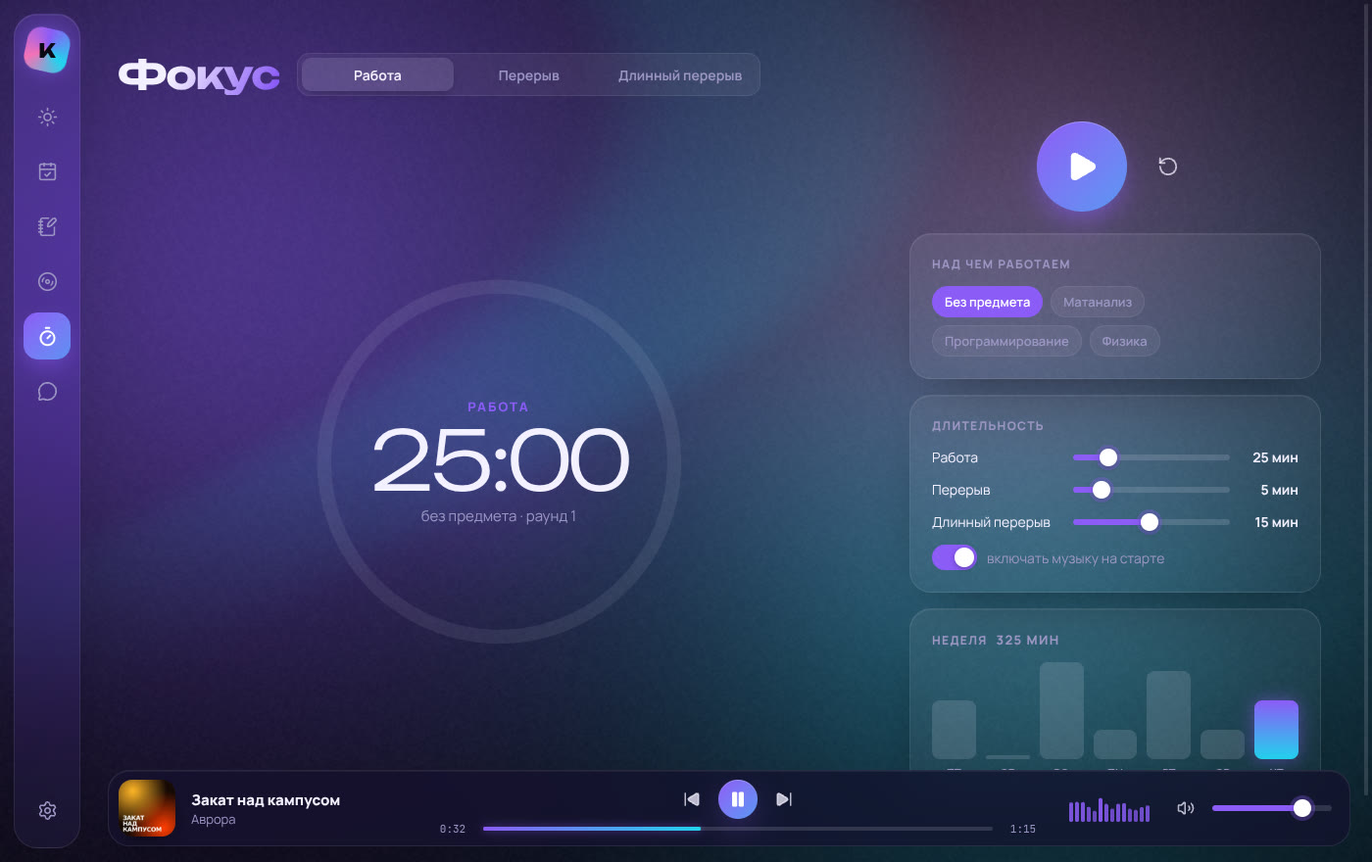
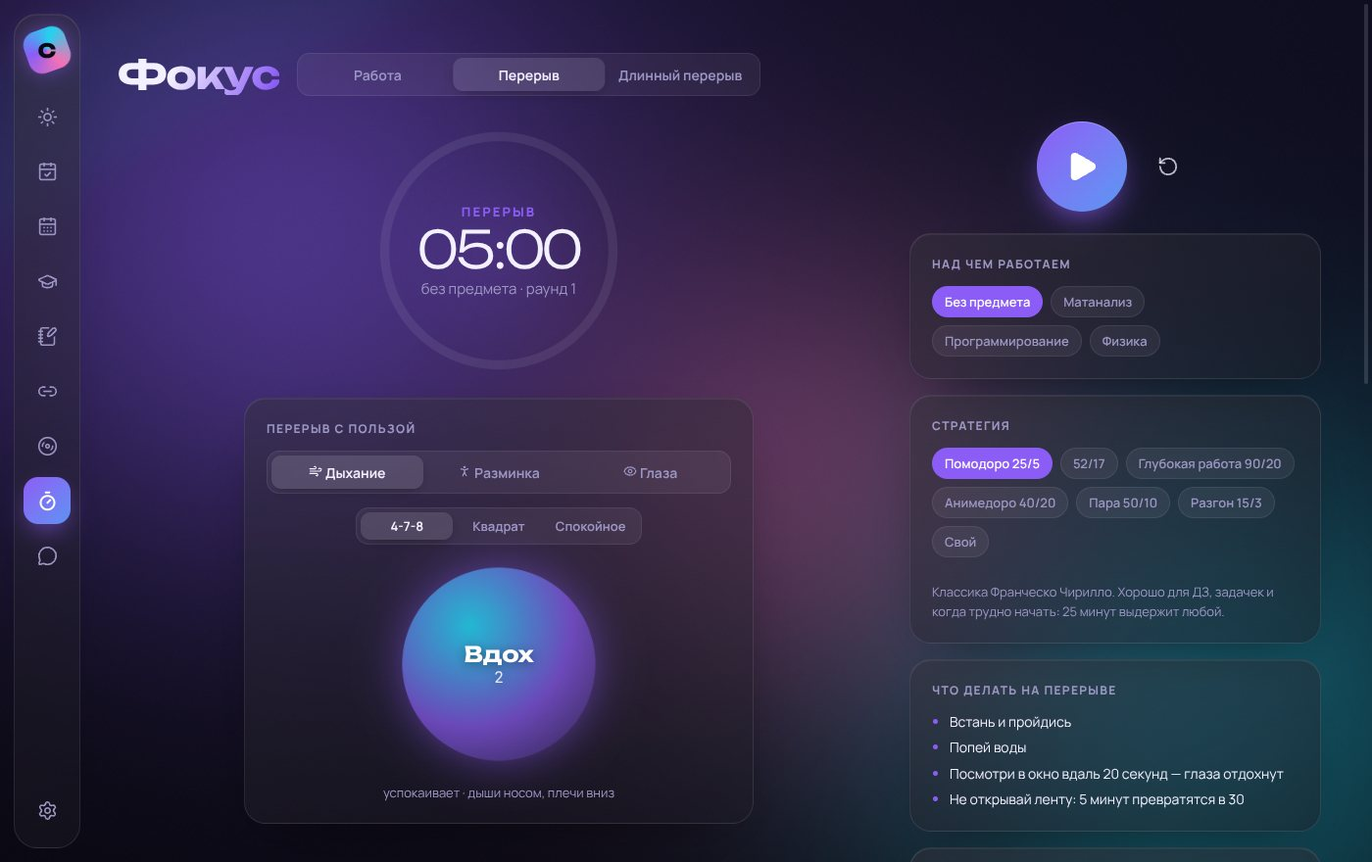
Камадо 1.0.0: README со свежими скриншотами, итоги в BUGS/ROADMAP
Claude-Session: https://claude.ai/code/session_01TCXKg4pTrgbacK1AsPovdT

diff --git a/desktop/renderer/src/screens/Focus.tsx b/desktop/renderer/src/screens/Focus.tsx
@@ -61,7 +61,7 @@ export function Focus() {
       </header>
 
       <div className="focus-layout">
-        <div className="focus-left">
+        <div className={`focus-left ${s.mode !== "work" && cfg.coach !== false ? "break" : ""}`}>
         <div className={`focus-timer mode-${s.mode} ${s.running ? "running" : ""}`}>
           <div ref={glow} className="focus-glow" />
           <svg viewBox="0 0 340 340" className="focus-ring">

diff --git a/desktop/renderer/src/styles/global.css b/desktop/renderer/src/styles/global.css
@@ -5440,3 +5440,12 @@ kbd {
 .ach span:last-child {
   color: var(--muted);
 }
+.focus-left.break {
+  align-self: start;
+}
+.focus-left.break .focus-timer {
+  width: min(280px, 30vh);
+}
+.focus-left.break .focus-time {
+  font-size: clamp(40px, 6vh, 64px);
+}

diff --git a/README.md b/README.md
@@ -1,6 +1,6 @@
 # Камадо
 
-Личный ассистент студента. Все ДЗ, контрольные и сроки в одном месте, напоминания вовремя, фокус-таймер и музыка с текстами песен. Можно писать ему с телефона через Telegram.
+Личный ассистент студента. Все ДЗ, контрольные и сроки в одном месте, план недели и подготовка к сессии, фокус-таймер с дыханием на перерыве, напоминания со звуком — и музыкальный плеер с огромной пластинкой, текстами песен и заставкой-визуализатором. Писать ему можно и с телефона, через Telegram: текстом, фото или голосом.
 
 ## Скачать
 
@@ -14,47 +14,59 @@
 
 ![Сегодня](docs/screenshots/today.jpg)
 
-## Что умеет
+## Учёба
 
 | | |
 |---|---|
-| ![Взрыв](docs/screenshots/burst.jpg) | ![Лента](docs/screenshots/flow.jpg) |
-| ![Музыка](docs/screenshots/music.jpg) | ![Задания](docs/screenshots/tasks.jpg) |
-| ![Фокус](docs/screenshots/focus.jpg) | ![Настройки](docs/screenshots/settings.jpg) |
+| ![План недели](docs/screenshots/plan.jpg) | ![Сессия](docs/screenshots/session.jpg) |
+| ![Задания и шаги](docs/screenshots/tasks.jpg) | ![Заметки с формулами](docs/screenshots/notes.jpg) |
+| ![Перерыв с дыханием](docs/screenshots/focus.jpg) | ![Ссылки на уроки](docs/screenshots/links.jpg) |
 
-- **Сегодня** — план на день (сам раскладывает задания по срочности, кнопка ▶ запускает фокус), что горит, быстрая запись, неделя.
-- **Задания** — ДЗ, контрольные, экзамены, лабы по срочности. Карточки предметов: препод, где сдавать, правила.
-- **Заметки** — конспекты и билеты.
-- **Ссылки** — все ссылки преподов в одном месте: Zoom, Meet, Moodle, чаты, диски. Вставь хоть целое сообщение из чата — Камадо сам вытащит ссылки, подпишет и разложит по предметам. Закреплённые и «недавно открывал» — наверху, поиск, открытие в один клик.
-- **Итоги недели** — сколько был в фокусе, что закрыл, лучший день, что слушал и исполнитель недели.
-- **Быстрая запись из любой программы** — Ctrl+Shift+Пробел (на Mac Cmd+Shift+Пробел), пишешь задание, Enter — и окно исчезает.
-- **Напоминания со звуком** — «напомни в 18:00» прямо на «Сегодня» и о сроках заданий. 10 звуков (от маримбы до фонка и мемного горна) или свой файл; громкость нарастает плавно, как на Samsung. «Стоп» или «через 10 минут».
-- **Фокус** — пресеты по настоящим методикам (Помодоро, 52/17, 90/20, Анимедоро, «пара» 50/10, разгон 15/3) с подсказками, что делать в сессии и на перерыве; можно и свой. Сам включает музыку, статистика за неделю.
-- **Музыка:**
-  - выбор трека в 3D-карусели: листай влево-вправо, остановился — через секунду играет; клик по обложке открывает плеер;
-  - **плейлисты**: «Все», «Любимое» (♡), «Часто слушаю», свои плейлисты, каждая папка — отдельная вкладка; треки перетаскиваются на плейлист;
-  - **поиск бесплатной музыки** (Internet Archive) прямо в программе — нашёл, отметил треки, скачал;
-  - огромная пластинка с обложкой в центре и своим дизайном для каждой песни (брызги, мрамор, половинки, галактика, спираль и др.) в цветах обложки; крути её — это скретч: песня звучит вперёд и назад;
-  - громкость прямо в плеере, плавная «по слуху»; **автовыравнивание громкости** скачанных песен и ползунок громкости для каждой песни отдельно;
-  - светящиеся волны и кольцо в такт, тряска на ударах баса;
-  - умный рандом («Перемешать всё»), плавные переходы между треками, таймер сна;
-  - slowed + reverb и nightcore, скорость каждого настраивается ползунком;
-  - мини-плеер в меню-баре Mac, «Сейчас играет» в Пункте управления, медиаклавиши;
-  - статус «Слушает в Camado» в Discord;
-  - текст песни в трёх режимах: «Лента», «Взрыв», «Строка»;
-  - **текст поверх всех окон** — строка с караоке внизу экрана, пока делаешь домашку в другой программе;
-  - музыка из папки, перетаскиванием или **по ссылке**: прямая ссылка на mp3/flac, страница, где трек лежит для скачивания, ссылка на Google Диск, Dropbox или Яндекс Диск (и целая папка на нём), или даже скопированный код страницы; папки обновляются сами — скачал трек в папку, он появился в библиотеке.
-  - Тексты песен подтягиваются сами. Если текст отстаёт или спешит — кнопка ⌖ «поймать»: нажми строку, которую поют, и весь текст встанет в такт; поймай ещё одну ближе к концу — подгонится и скорость (бывает, если скачанная копия чуть ускорена). ⌖ сам подсвечивается, когда текст, скорее всего, от другой версии песни. Если текста нет, положи файл `.lrc` с тем же названием рядом с песней.
-- **12 палитр** и режим «цвета из обложки трека».
-- **Обновляется сама** — новая версия скачивается в фоне, остаётся нажать «Перезапустить».
-- **Камадо-чат и Telegram** — пишешь обычными словами («по матану №5–12 к пятнице»), он сам всё запишет. Нужен ключ ИИ, вставляется в Настройках.
+- **Сегодня** — план на день по срочности (▶ запускает фокус), что горит, быстрая запись текстом, **фото** или **голосом**, свои напоминания, уровень и серия дней.
+- **Задания** — ДЗ, контрольные, экзамены, лабы по срочности; карточки предметов. У каждого задания:
+  - **«Разбей на шаги»** — Камадо превращает курсовую в 5–7 маленьких шагов с галочками;
+  - **«Помоги понять»** — репетитор объясняет тему и задаёт наводящие вопросы, но не решает за тебя.
+- **План** — неделя по часам: перетаскивай задания на дни, тяни блоки за край, **«Разложить сам»** — Камадо расставит всё по свободным вечерам до сроков.
+- **Сессия** — отсчёт до каждого экзамена, билеты «знаю / повторить / не знаю» и сколько учить сегодня, чтобы успеть всё.
+- **Заметки** — конспекты с **формулами** (`$\lim_{x\to0}\frac{\sin x}{x}$` рисуется как в учебнике), сохранение в **PDF**, **карточки** из конспекта и повторение по интервалам, как в Anki.
+- **Ссылки** — все ссылки преподов в одном месте: вставь хоть целое сообщение из чата — Камадо вытащит ссылки, подпишет и разложит по предметам.
+- **Фокус** — пресеты по методикам (Помодоро, 52/17, 90/20, Анимедоро…), на перерыве — **дыхание, разминка и гимнастика для глаз**, фоновые звуки и свои плейлисты на работу и отдых.
+- **Напоминания со звуком** — 10 звуков (от маримбы до фонка) или свой, громкость нарастает плавно.
+- **Итоги недели и ачивки** — сколько был в фокусе, что сдал, лучший день, музыка недели, значки за серии.
+- **Быстрая запись из любой программы** — Cmd/Ctrl+Shift+Пробел.
+- **В меню-баре Mac** — таймер фокуса или ближайший дедлайн рядом с часами.
+
+## Музыка
+
+| | |
+|---|---|
+| ![Пластинка](docs/screenshots/vinyl.jpg) | ![Взрыв](docs/screenshots/burst.jpg) |
+| ![Музыка](docs/screenshots/music.jpg) | ![Заставка](docs/screenshots/screensaver.jpg) |
+
+- **Огромная пластинка** с обложкой в центре — 22 вида (брызги, мрамор, мозаика, зигзаги, неон, галактика, пластинка-картинка…) в настоящих цветах обложки; кнопка «другой вид». Крути её — это скретч самой песней.
+- **Тексты песен** — «Лента», «Взрыв», «Строка» и текст поверх всех окон. Разъехался текст — кнопка ⌖: поймай строку, и ещё одну там, где снова разъехалось, — Камадо подгонит и сдвиг, и скорость.
+- **Заставка-визуализатор** — ничего не трогаешь пару минут, и экран превращается в живую сцену в цветах песни: дождь по стеклу, чёрная дыра, звёзды, северное сияние, синтвейв, костёр, медузы… — 11 сцен.
+- **Звук** — эквалайзер с пресетами, автовыравнивание громкости и громкость каждой песни отдельно, slowed + reverb и nightcore с ползунком скорости, плавные переходы, таймер сна.
+- **Фоновые звуки** — дождь, гроза, кафе, камин, лес, море, поезд, шумы, котик — смешиваются ползунками, с музыкой и без.
+- **Библиотека** — плейлисты, «Любимое», «Часто слушаю»; музыка из папки, перетаскиванием, по ссылке (файл, страница, Google Диск, Dropbox, Яндекс Диск) и **поиск бесплатной музыки** прямо в программе.
+- Мини-плеер в меню-баре Mac, медиаклавиши, статус в Discord, 12 палитр и «цвета из обложки».
+
+![Сцены заставки](docs/screenshots/scenes.jpg)
+
+## ИИ — бесплатно
+
+Камадо понимает обычный текст, фото и голос. По умолчанию — **бесплатный Google Gemini**: ключ берётся за минуту на aistudio.google.com, карта не нужна. В Настройках → ИИ можно подключить Claude или любую другую модель (OpenRouter, DeepSeek, своя на компьютере через Ollama). Лимит трат всегда включён. Без ключа всё работает вручную.
 
 ## Первые шаги
 
 1. **Музыка** → «Папка» — выбери папку с песнями, перетащи файлы в окно или вставь ссылку на трек.
-2. **Настройки → Telegram-бот** — чтобы писать Камадо с телефона. Там три шага с подсказками.
-3. **Настройки → ИИ** — чтобы Камадо понимал обычный текст. Без этого всё работает вручную и бесплатно.
+2. **Настройки → ИИ** — вставь бесплатный ключ Gemini, чтобы Камадо понимал обычный текст, фото и голос.
+3. **Настройки → Telegram-бот** — чтобы писать Камадо с телефона. Там три шага с подсказками.
+
+## Безопасность
+
+Ключи хранятся зашифрованными (Связка ключей на Mac), бот отвечает только тебе, текст из чатов и сайтов — это данные, а не команды. Подробнее — [docs/SECURITY.md](docs/SECURITY.md).
 
 ---
 
-<sub>Для разработчиков: [docs/DEVELOPMENT.md](docs/DEVELOPMENT.md) · план — [docs/ROADMAP.md](docs/ROADMAP.md)</sub>
+<sub>Для разработчиков: [docs/DEVELOPMENT.md](docs/DEVELOPMENT.md) · план — [docs/ROADMAP.md](docs/ROADMAP.md) · известные проблемы — [docs/BUGS.md](docs/BUGS.md)</sub>

diff --git a/docs/BUGS.md b/docs/BUGS.md
@@ -15,88 +15,9 @@
 3. Подгонка ⌖ неочевидна: непонятно, что нажимать и в какой момент.
 
 **Что нужно:** файл «Пообещай» (как с прошлыми пятью) — разобрать так же: длины, версия в базе, где начинается расхождение.
-**Идеи:** подгонка в несколько точек (а не только в две) — «ловишь» строку там, где снова разъехалось;
-понятная подсказка прямо в плеере, что делать с ⌖; искать в базе среди всех версий ту, что лучше совпадает с паузами в звуке.
-
-## Название песни налезает на кольцо в режиме «Без текста» (0.6.2)
-
-**Что видно:** при «Без текста» и визуализаторе «Кольцо» название и исполнитель стоят посередине справа — прямо на кольце,
-плохо читается.
-
-**Как хочет владелец:** название сверху справа, чтобы смотрелось гармонично; либо название пожирнее / с более тёмной
-подложкой или тенью, чтобы было видно на фоне кольца и волн.
-
-**Добавка владельца:** в режиме «Без текста» убирать и название с исполнителем тоже — «нет текста — нет и названия»,
-на экране только пластинка и визуализатор. (Тогда вопрос «название на кольце» остаётся для остальных режимов.)
-
-## Пожелание: ещё больше видов пластинок и цветов (0.6.2)
-
-**Что хочет владелец:** пластинки нравятся — нужно ещё больше разновидностей внешнего вида и больше цветов;
-лучше всего, чтобы цвета пластинки были как у самой песни.
-
-**Как сейчас:** 10 стилей (брызги, мрамор, половинки, цветная, галактика, спираль, «цвет в цвете», лучи, вертушка, классика);
-цвета — 3 акцентных цвета палитры (из обложки, если включено «Цвета из обложки»).
-
-**Идеи:**
-- брать из обложки не 3, а 5–6 главных цветов (и светлые, и тёмные) — пластинка будет точно «как песня»;
-- новые стили: волны/рябь, полосы-радуга, градиент по кругу, «леопард»/пятна, сетка точек (как на колонках), молния/зигзаг,
-  неон-кольца, мозаика, акварель, «расплавленный» винил, полупрозрачный с видимой обложкой сквозь него, картинка (picture disc);
-- смешивать стили: основа одного + узор другого — вариантов станет в разы больше;
-- у одной песни вид всегда один и тот же (как сейчас), но кнопкой «другой вид» можно пролистать варианты и запомнить понравившийся.
-
-## Пожелание: не только Claude — бесплатная «затычка» Gemini Flash и любые другие модели (0.6.2)
-
-**Решение владельца:** по умолчанию — бесплатный Google Gemini Flash (самая простая модель, как затычка);
-в Настройках → ИИ можно подключить другие.
-
-**Как сделать:**
-- Новый провайдер `GeminiProvider` за тем же интерфейсом `LLMProvider` (код Камадо не зависит от провайдера).
-  Инструменты (задания, предметы, память) — через вызов функций Gemini; zod-схемы → его формат.
-- Ключ всё равно нужен, но бесплатный: aistudio.google.com → Get API key, без карты. В Настройках — шаги с подсказками
-  и кнопка «Открыть Google AI Studio». Ключ хранится зашифрованным, как ключ Anthropic.
-- Честно предупредить в Настройках: на бесплатном тарифе Google может использовать запросы для обучения; есть дневной лимит
-  (проверить актуальный при подключении). Упёрлись в лимит — понятное сообщение и ручной режим до завтра.
-- Учёт трат: на бесплатном тарифе — $0; если у ключа включена оплата — цены Flash в таблице `pricing`.
-- Дальше в том же разделе: Anthropic (как сейчас), OpenRouter, любой OpenAI-совместимый (DeepSeek, GLM, Groq),
-  своя модель на компьютере (Ollama). Можно разные модели для «быстрых» и «важных» задач.
-
-## Новые функции, выбранные владельцем (из 10 идей)
-
-- **Режим «Сессия».** Обратный отсчёт до каждого экзамена; список билетов с отметками «выучил / повторить / не знаю»;
-  Камадо раскладывает повторение по дням до экзамена (больше на «не знаю», ближе к экзамену — всё по кругу).
-- **Карточки из своих заметок.** Из конспекта ИИ делает пары «вопрос — ответ»; повторение по интервалам
-  (знаю — реже, забыл — чаще). Без ИИ — карточки можно писать вручную.
-- **Фоновые звуки для учёбы — владелец особенно хочет (!!).** Дождь, кафе, белый/розовый/коричневый шум, камин, лес, поезд…
-  Синтезировать прямо в программе (без файлов), смешивать ползунками друг с другом и с музыкой; включать вместе с фокусом.
-- **Дедлайн и таймер в меню-баре Mac.** Рядом с часами: «Матан через 5 ч» или «Фокус 18:42» (на Windows — в подсказке трея).
-- **Музыка под режим фокуса — «±», под вопросом.** Свои плейлисты «для работы» и «для перерыва», Камадо переключает по таймеру;
-  вариант посложнее — подбирать по темпу трека. Делать в простом виде, если останется время.
-
-## Версия 1.0.0 — ещё функции, выбранные владельцем (приоритет: больше «!» — важнее)
-
-- **Заставка-визуализатор — ФАВОРИТ (!!!!!!!).** Пару минут ничего не трогаешь, пока играет музыка, — экран превращается в живую
-  сцену на весь экран: пластинка/волны + текст песни крупно + (по желанию) часы и «дальше играет…». Сцены — на выбор в Настройках
-  или «случайная на каждый трек», всё в цветах обложки и в такт музыке (WebGL, плавно на 60/144 Гц):
-  дождь по стеклу (обложка размыта за стеклом, капли дрожат на басу); чёрная дыра (диск в цветах обложки, свет искривляется, пульс
-  на ударе); полёт сквозь звёзды (скорость — от громкости); северное сияние над горами; ночной океан (волны — спектр);
-  синтвейв (ретро-сетка, солнце, горы — спектр); костёр с искрами на басу; лава-лампа; обложка, рассыпающаяся на тысячи частиц
-  и собирающаяся в такт; светящиеся медузы; проигрыватель сверху с тонармом. Выход — любое движение мыши/клавиша.
-  Настройки: сцена, через сколько включаться, показывать ли текст и часы.
-- **Эквалайзер (!!!).** Пресеты «Бас», «Вокал», «Спокойно», «Наушники», «Громкость ночью» + свои ползунки (10 полос);
-  работает вместе со slowed/nightcore и автовыравниванием.
-- **Планировщик недели (!!).** Неделя по часам; задания перетаскиваются на дни; Камадо предлагает раскладку с учётом сроков
-  и свободного времени; блоки фокуса из плана запускаются кнопкой.
-- **Фото задания → запись (!).** Фото доски / страницы / скрин из чата → ИИ (Gemini видит картинки) читает и записывает задания
-  со сроками; показывает, что понял, перед сохранением.
-- **Голосом «запиши…» (!).** Кнопка/горячая клавиша в приложении и голосовые в Telegram → текст → задание.
-- **«Разбей на шаги» (!).** Большое задание → 5–7 маленьких шагов с галочками и сроками (ИИ), прогресс у задания.
-- **Репетитор «помоги понять» (!).** Объясняет тему, даёт план и наводящие вопросы, но не решает за тебя.
-- **Формулы в заметках (+).** Дроби, интегралы, матрицы (KaTeX); заметку и список билетов — в PDF.
-- **Ачивки и серии (±).** Значки за серии фокуса, закрытые задания, «ночную сессию»; уровни; серия на «Сегодня». Если останется время.
-- **Дыхание и разминка на перерыве (интересно, как сделаю).** Круг дыхания (4-7-8, «квадрат», спокойное 5-5): растёт на вдохе,
-  замирает на задержке, сдувается на выдохе — через transform, с мягким звуком смены фазы; разминка — карточки с анимированной
-  фигуркой (шея, плечи, спина, кисти) по 20–30 с; глаза — точка, за которой следишь взглядом, + правило 20-20-20.
-  Включается само на перерыве фокуса (можно выключить).
+**Что уже сделано в 1.0.0:** подгонка в сколько угодно точек — «ловишь» строку там, где снова разъехалось
+(помогает и при вырезанном куске посередине); подсказка ⌖ понятнее.
+**Осталось:** разобрать сам файл «Пообещай», когда владелец его пришлёт.
 
 ## Исправлено (лежит в коде, войдёт в следующую сборку)
 
@@ -117,3 +38,11 @@
 - **Текст поверх окон не работал (0.6 → 0.6.2).** Строки в поверх-окно слались из цикла кадров основного окна, а он
   останавливается, когда Камадо свёрнут или закрыт другой программой. Теперь — по таймеру; плюс окно открывается на экране,
   где мышь, и на Mac висит и поверх программ на весь экран. Проверено вживую: основное окно спрятано — текст идёт.
+
+### Сделано в 1.0.0 (всё из списка владельца)
+- Название песни без текста — сверху справа на мягкой подложке; «Без текста» прячет и название.
+- 22 вида пластинок в настоящих цветах обложки (до 6 цветов), второй узор поверх, кнопка «другой вид».
+- Бесплатный Gemini по умолчанию; Claude и любые OpenAI-совместимые модели в Настройках → ИИ.
+- Заставка-визуализатор (11 сцен), эквалайзер, фоновые звуки (12), режим «Сессия», карточки из конспекта,
+  таймер/дедлайн в меню-баре, музыка под фокус, фото и голос → задания (и в Telegram), «Разбей на шаги»,
+  репетитор, формулы и PDF, планировщик недели, ачивки и серии, дыхание и разминка на перерыве.

diff --git a/docs/ROADMAP.md b/docs/ROADMAP.md
@@ -14,7 +14,7 @@
 - [x] Модель меняется в настройках
 - [x] Ручной режим без ключа; ключ подключается командой /key
 - [ ] **Чтение учебных чатов самостоятельно.** Камадо подключается к твоему аккаунту Telegram только на чтение (официальный API, ключ с my.telegram.org). Ты говоришь «следи за этим чатом», дешёвая модель (fast) отсеивает болтовню, важное уходит мозгу.
-- [ ] Файлы, фото и голосовые: PDF с заданиями, фото доски, голосовое «запиши…»
+- [x] Фото доски и голосовое «запиши…» — в приложении и в Telegram (PDF-файлы — позже)
 - [x] Приложение для компьютера: Сегодня, Задания, Заметки, Фокус, Чат, Настройки
 - [x] Музыка: своя библиотека, 3D-карусель, пластинка, визуализатор, тексты (Лента/Взрыв/Строка), тряска в такт
 - [x] Музыка по ссылке (файл или страница с аудио)
@@ -28,6 +28,8 @@
 - [x] Пресеты фокуса по реальным методикам с гайдами
 - [x] Автовыравнивание громкости и громкость для каждой песни, скретч самой песней
 - [x] Плейлисты, «Любимое», «Часто слушаю»; поиск бесплатной музыки; Google Диск / Dropbox / Яндекс Диск и код страницы
+- [x] **1.0.0:** заставка-визуализатор, эквалайзер, фоновые звуки, режим «Сессия», репетитор, «разбей на шаги», формулы и PDF,
+  ачивки, дыхание и разминка, меню-бар, бесплатный Gemini и выбор любой модели
 - [x] Итоги недели; быстрая запись задания горячей клавишей из любой программы
 - [x] Установщик (.exe / .dmg) — собирается на GitHub автоматически
 - [x] Обновление из интерфейса (Windows — само, Mac — ссылка)
@@ -43,9 +45,9 @@
 
 - [ ] Браузер: Камадо заходит на сайты преподов и запоминает, как с каждым работать
 - [ ] Логин на сайтах с твоего разрешения; пароли в зашифрованном хранилище, а не у модели
-- [ ] Тесты и карточки по материалам преподов, повторение по интервалам
+- [x] Карточки из своих конспектов, повторение по интервалам (по материалам преподов — позже)
 - [ ] Карта прогресса по темам каждого предмета
-- [ ] План на день и неделю с учётом сроков, сложности и свободного времени (smart)
+- [x] План на неделю: перетаскивание и автораскладка по свободным окнам до сроков
 - [ ] Сортировка файлов по предметам в облачном хранилище
 
 ## Этап 3 — «Джарвис»

diff --git a/CLAUDE.md b/CLAUDE.md
@@ -16,7 +16,7 @@
 
 - TypeScript, ESM, Node ≥ 22.13. В импортах указывай расширение `.js`.
 - База: встроенный `node:sqlite` (`src/db.ts`). Схема меняется только новой миграцией в конце `MIGRATIONS`; старые не редактировать после первого деплоя.
-- Модель подключается через интерфейс `LLMProvider` (`src/llm/types.ts`). Код Камадо не должен зависеть от конкретного провайдера.
+- Модель подключается через интерфейс `LLMProvider` (`src/llm/types.ts`). Код Камадо не должен зависеть от конкретного провайдера. Провайдеры: `gemini.ts` (по умолчанию, бесплатный), `anthropic.ts`, `openai.ts` (OpenAI-совместимые); выбор — `providers.ts` + `core.ts` (`applyAi`). Если сервис не сообщает цену и модель не локальная — `costUsd` не задаём, учёт трат посчитает по самой дорогой цене.
 - Инструменты модели описываются через `defineTool` с zod-схемой (`src/llm/tool.ts`).
 - Время хранится в UTC (ISO), показывается в `CAMADO_TIMEZONE`.
 - Системный промпт (`src/camado/persona.ts`) не должен содержать меняющихся данных (времени и т. п.), иначе ломается кэш. Текущее время добавляется в сообщение пользователя.
